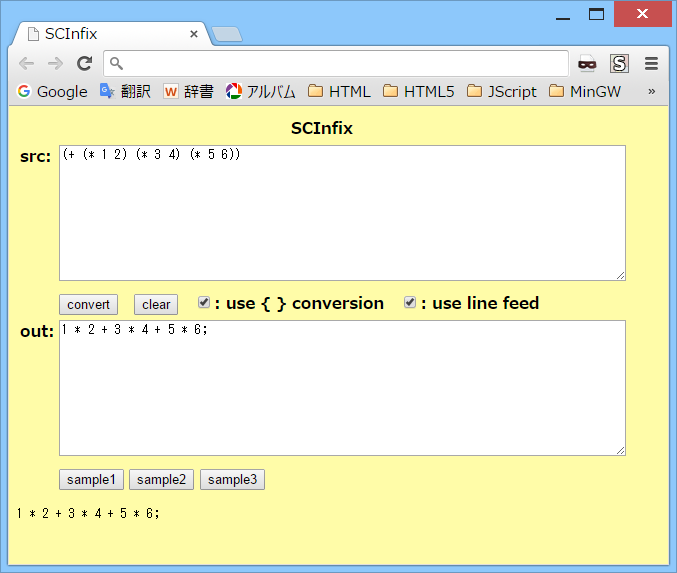
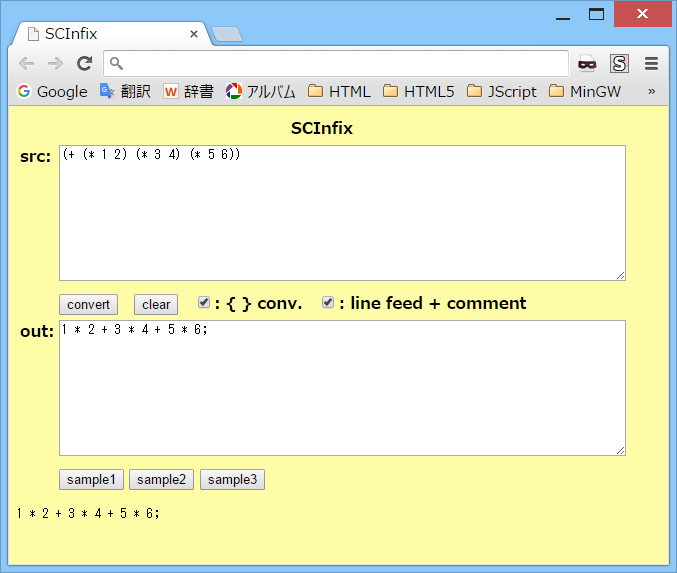
src chg v1.16

Changed region(s): [[0.3412, 0.5044, 0.8065, 0.5637]]

diff --git a/scinfix.html b/scinfix.html
@@ -5,7 +5,7 @@
 <title>SCInfix</title>
 <!--
     scinfix.html
-    2015-11-6 v1.15
+    2015-11-6 v1.16
 -->
 <style type="text/css">
 <!--
@@ -141,7 +141,7 @@ function sample_button(sample_no) {
 //   SCInfix.convert(src_st, curly_conv, line_feed)  変換実行
 //     src_st      ソース(文字列)
 //     curly_conv  波括弧変換フラグ(boolean)
-//     line_feed   改行反映フラグ(boolean)
+//     line_feed   改行(+コメント)反映フラグ(boolean)
 //     戻り値      結果オブジェクト
 //                   result.out   テキスト出力(文字列)
 //                   result.html  HTML出力(文字列)
@@ -198,7 +198,7 @@ var SCInfix;
     // ***** 変数 *****
     var src_st;               // ソース(文字列)
     var curly_conv;           // 波括弧変換フラグ(boolean)
-    var line_feed;            // 改行反映フラグ(boolean)
+    var line_feed;            // 改行(+コメント)反映フラグ(boolean)
     var out_st;               // テキスト出力(文字列)
     var html_st;              // HTML出力(文字列)
     var operator_table1 = {}; // 演算子情報1(連想配列オブジェクト)
@@ -213,8 +213,8 @@ var SCInfix;
                               //                          =1:開き括弧,
                               //                          =2:閉じ括弧,
                               //                          =3:クォート等の要素の前につく記号,
-                              //                          =51:1行コメント(未使用),
-                              //                          =52:複数行コメント(未使用),
+                              //                          =51:1行コメント,
+                              //                          =52:複数行コメント,
                               //                          =53:S式コメント(未使用),
                               //                          =100:その他)
                               //   token[i].word     単語(文字列)
@@ -225,7 +225,8 @@ var SCInfix;
                               //   code[i].pos2      デバッグ位置2
     var debugpos1;            // デバッグ位置1
     var debugpos2;            // デバッグ位置2
-    var line_feed_num;        // 未出力の改行数
+    var line_feed_num;        // 未出力の改行(+コメント)数
+    var line_feed_code = [];  // 未出力の改行(+コメント)(配列)
 
     // ***** 公開I/F *****
 
@@ -245,7 +246,7 @@ var SCInfix;
         src_st = src_st1;
         // ***** 波括弧変換フラグの取得 *****
         curly_conv = curly_conv1;
-        // ***** 改行反映フラグの取得 *****
+        // ***** 改行(+コメント)反映フラグの取得 *****
         line_feed = line_feed1;
         // ***** 演算子情報の生成 *****
         make_optable();
@@ -274,10 +275,10 @@ var SCInfix;
         function make_output_sub(escape_func) {
             var i;
             var wd;              // 単語
+            var wd_2;            // 単語の先頭2文字
             var output_st;       // 出力文字列
             var code_length;     // コード数
             var arr_st = [];     // 文字列の配列
-            var arr_st_length;   // 文字列の配列長
             var add_space_flag1; // 空白追加用1
             var add_space_flag2; // 空白追加用2
 
@@ -288,20 +289,33 @@ var SCInfix;
             for (i = 0; i < code_length; i++) {
                 // ***** 単語を追加 *****
                 wd = code[i].word;
+                wd_2 = wd.substring(0, 2);
                 if (wd == ",") {
                     add_space_flag1 = false;
                     add_space_flag2 = true;
                 } else if (operator_table2.hasOwnProperty(wd) || wd == ":") {
-                    arr_st_length = arr_st.length;
-                    if (arr_st_length == 0 ||
-                        arr_st[arr_st_length - 1] == " " ||
-                        arr_st[arr_st_length - 1] == "(" ||
-                        arr_st[arr_st_length - 1] == "\n") {
+                    if (i == 0 ||
+                        code[i - 1].word == " " ||
+                        code[i - 1].word == "(" ||
+                        code[i - 1].word == "\n") {
                         add_space_flag1 = false;
                     } else {
                         add_space_flag1 = true;
                     }
                     add_space_flag2 = true;
+                } else if (wd_2 == "//" || wd_2 == "/*") {
+                    if (i == 0 ||
+                        code[i - 1].word == "\n") {
+                        add_space_flag1 = false;
+                    } else {
+                        add_space_flag1 = true;
+                    }
+                    if (i == code_length - 1 ||
+                        code[i + 1].word == "\n") {
+                        add_space_flag2 = false;
+                    } else {
+                        add_space_flag2 = true;
+                    }
                 } else {
                     add_space_flag1 = false;
                     add_space_flag2 = false;
@@ -346,14 +360,18 @@ var SCInfix;
         debugpos1 = 0;
         debugpos2 = 0;
         line_feed_num = 0;
+        line_feed_code = [];
         try {
             // ***** プログラムのコンパイル *****
             tok_end = token.length - 4; // 終端4個分マイナス
             last_lf_num = 0;
             while (tok_end > 0) {
-                // ***** 末尾の改行を削除 *****
-                // (改行のスキップにより、1回多く読み込んでしまうことを回避するため)
-                if (token[tok_end - 1].kind == 0) {
+                // ***** 末尾の改行(+コメント)を削除 *****
+                // (改行(+コメント)のスキップにより、1回多くトークンを
+                //  読み込んでしまうことを回避するため)
+                if (token[tok_end - 1].kind == 0  ||
+                    token[tok_end - 1].kind == 51 ||
+                    token[tok_end - 1].kind == 52) {
                     last_lf_num++;
                     tok_end--;
                     continue;
@@ -362,9 +380,9 @@ var SCInfix;
             }
             c_prog(0, tok_end);
             if (line_feed) {
-                // ***** 末尾の改行を戻す *****
+                // ***** 末尾の改行(+コメント)を戻す *****
                 for (i = 0; i < last_lf_num; i++) {
-                    code_push("\n", debugpos1, tok_end);
+                    code_push(token[tok_end + i].word, debugpos1, tok_end);
                 }
             }
             for (i = 0; i < code.length; i++) {
@@ -896,6 +914,8 @@ var SCInfix;
                     i++;
                 }
                 // token_push(51);
+                temp_st = "// " + src_st.substring(i_start, i);
+                token_push(51, temp_st);
                 continue;
             }
             // ***** 複数行コメントのとき *****
@@ -914,14 +934,11 @@ var SCInfix;
                         if (comment_nest <= 0) { break; }
                     }
                     // ***** 改行のとき *****
-                    // if (ch == "\r" || ch == "\n") { line_no++; if (ch == "\r" && ch2 == "\n") { i++; } }
-                    if (ch == "\r" || ch == "\n") {
-                        line_no++;
-                        if (ch == "\r" && ch2 == "\n") { i++; }
-                        token_push(0, "\n");
-                    }
+                    if (ch == "\r" || ch == "\n") { line_no++; if (ch == "\r" && ch2 == "\n") { i++; } }
                 }
                 // token_push(52);
+                temp_st = "/* " + src_st.substring(i_start, i) + " */";
+                token_push(52, temp_st);
                 continue;
             }
             // ***** S式コメントのとき *****
@@ -1076,12 +1093,15 @@ var SCInfix;
         code.splice(i, 0, cd);
     }
 
-    // ***** トークンの改行のスキップ *****
+    // ***** トークンの改行(+コメント)のスキップ *****
     function skip_line_feed(i, tok_end) {
         while (i < tok_end) {
-            if (token[i].word == "\n") {
+            if (token[i].kind == 0  ||
+                token[i].kind == 51 ||
+                token[i].kind == 52) {
                 i++;
                 line_feed_num++;
+                line_feed_code.push(token[i - 1].word);
                 continue;
             }
             break;
@@ -1089,16 +1109,17 @@ var SCInfix;
         return i;
     }
 
-    // ***** コードの改行の出力 *****
-    // (演算子の直前で改行しないように、呼び出すタイミングに注意する)
+    // ***** コードの改行(+コメント)の出力 *****
+    // (呼び出すタイミングに注意する(演算子の直前で改行しないように))
     function output_line_feed(i) {
         var i2;
         if (line_feed) {
             for (i2 = 0; i2 < line_feed_num; i2++) {
-                code_push("\n", debugpos1, i);
+                code_push(line_feed_code[i2], debugpos1, i);
             }
         }
         line_feed_num = 0;
+        line_feed_code = [];
     }
 
     // ***** HTML文字列のエスケープ処理 *****
@@ -1140,8 +1161,8 @@ var SCInfix;
 <th></th>
 <th align="left"><input type="submit" value="convert"> &nbsp;
 <input type="button" value="clear" onclick="clear_button();"> &nbsp;
-<input type="checkbox" id="curly_conv" checked>: use { } conversion &nbsp;
-<input type="checkbox" id="line_feed" checked>: use line feed</th>
+<input type="checkbox" id="curly_conv" checked>: { } conv. &nbsp;
+<input type="checkbox" id="line_feed" checked>: line feed + comment</th>
 <th></th>
 </tr><tr>
 <th align="left" valign="top">out:</th>

diff --git a/README.md b/README.md
@@ -18,11 +18,11 @@
   結果は、outのテキストボックスに表示されます。  
   (その下にも確認用に同じものが表示されます)
 
-- また、「use { } conversion」のチェックボックスにチェックを入れると、  
+- また、「{ } conv.」のチェックボックスにチェックを入れると、  
   波括弧 { } 内の文字列は変換をしなくなります。
 
-- また、「use line feed」のチェックボックスにチェックを入れると、  
-  入力の改行を 結果に反映します。
+- また、「line feed + comment」のチェックボックスにチェックを入れると、  
+  入力の改行とコメントを、変換結果に反映します。
 
 - clearボタンをクリックすると、入出力をすべてクリアします。
 
@@ -47,10 +47,10 @@
 4. 前置記法の括弧は、( ) [ ] { } に対応しています。  
    ただし、括弧の種類の対応についてはチェックをしていません。  
    (例えば、(+ 1 2] 等もエラーにはならない)  
-   また、「use { } conversion」のチェックボックスにチェックを入れると、  
+   また、「{ } conv.」のチェックボックスにチェックを入れると、  
    波括弧 { } は、前置記法の括弧としては使用できなくなります。
 
-5. 「use { } conversion」のチェックボックスにチェックを入れると、  
+5. 「{ } conv.」のチェックボックスにチェックを入れると、  
    波括弧 { } 内の文字列は変換をしなくなります。  
    波括弧の囲みは、変換時に外されて中身だけが出力されます。  
    ( {a-b-c} → a-b-c 等)  
@@ -89,6 +89,7 @@
 - 2015-11-4  v1.13 改行処理見直し
 - 2015-11-4  v1.14 不要変数削除
 - 2015-11-6  v1.15 トークン分割処理修正。演算子の引数なし対応等
+- 2015-11-6  v1.16 入力のコメントを変換結果に反映
 
 
 (2015-11-6)
